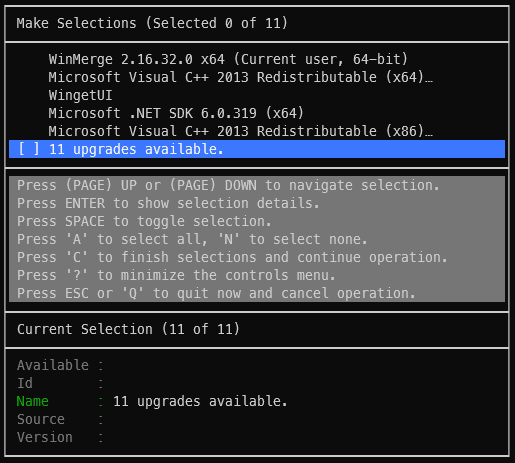
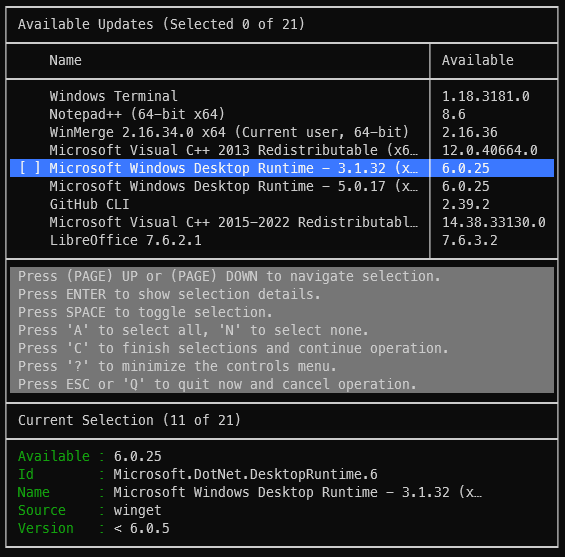
Updated README

diff --git a/README.md b/README.md
@@ -68,7 +68,13 @@ Show-TableUI -Table $tableData -Selections ([ref]$selections)
 ![Test Example](img/test-ui.png)
 
 Here is an example of interfacing WinGet update with TableUI utilizing
-`ConvertFrom-TextTable` module (also available in PSGallery).
+`ConvertFrom-TextTable` module (also available in PSGallery). This example
+specifies multiple members for `DefaultMemberToShow`. This results in multiple
+columns being rendered in the UI for the associated UI. The first member is
+always given priority, if it cannot fit within the UI, the right-most columns
+will be dropped to make space for it. A visual indicator is used to indicate
+that the table is not showing all columns in the UI (via the use of vertical
+double-bars on the right side of the UI).
 
 ```pwsh
 Install-Module -Name TextTable -Repository PSGallery
@@ -76,7 +82,7 @@ Import-Module TextTable
 
 $selections = @()
 $tableData = winget update | ConvertFrom-TextTable
-Show-TableUI -Table $tableData -DefaultMemberToShow Name -Selections ([ref]$selections)
+$tableData | Show-TableUI -DefaultMemberToShow Name,Available -Selections ([ref]$selections) -Title 'Available Updates'
 ```
 
 > [!NOTE]\
